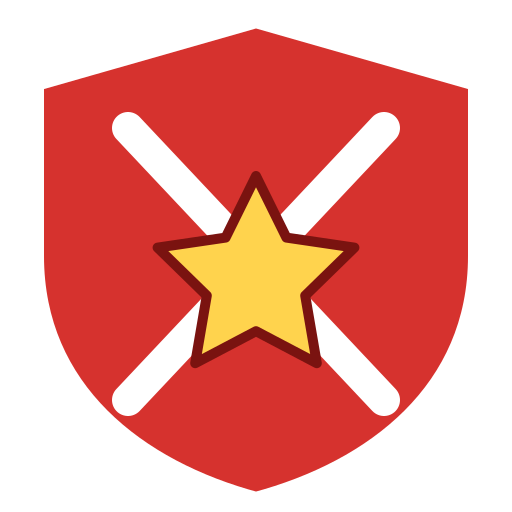
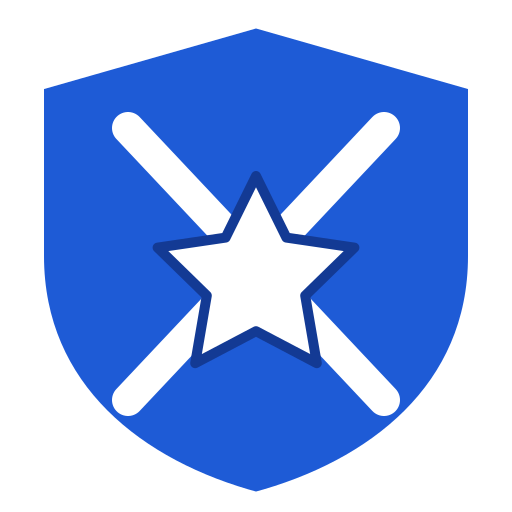
Switch Sibau Wars theme to blue and white
New blue/white logo and favicon, Sibau blue accent palette, blue hex
background. In-game colors restored to upstream values.

Claude-Session: https://claude.ai/code/session_01U8VWsYnnnMZr5W4Gy2c1H3

diff --git a/src/client/styles.css b/src/client/styles.css
@@ -22,11 +22,11 @@
   --font-display: "SibauDisplay", Inter, Arial, sans-serif;
 
   /* Openfront.io brand palette — see Openfront_Brand_Guidelines.pdf §4 */
-  --color-malibu-blue: #d6322e;
-  --color-aquarius: #ff5a4f;
+  --color-malibu-blue: #1e5bd6;
+  --color-aquarius: #5b9bff;
   --color-dawn-blue: #cccccc;
   --color-bright-white: #ffffff;
-  --color-bright-blue: #ff3b30;
+  --color-bright-blue: #3b82f6;
 
   /* Openfront Masters sub-brand */
   --color-cyber-yellow: #ffd700;
@@ -34,21 +34,21 @@
 
   /* Background & decorative — not for standalone UI use */
   --color-deep-navy: #0a1628;
-  --color-hex-cyan: #ff3b30;
+  --color-hex-cyan: #3b82f6;
   --color-frame-orange: #f97316;
 
   /* App-specific surface colors */
   --color-surface: #0a1628;
 
-  --shadow-malibu-blue: 0 0 15px rgba(214, 50, 46, 0.2);
-  --shadow-malibu-blue-soft: 0 0 12px rgba(214, 50, 46, 0.2);
-  --shadow-malibu-blue-strong: 0 0 15px rgba(214, 50, 46, 0.3);
-  --shadow-malibu-blue-pill: 0 0 6px rgba(214, 50, 46, 0.35);
-  --shadow-malibu-blue-ring-sm: 0 0 0 4px rgba(214, 50, 46, 0.2);
-  --shadow-malibu-blue-ring-lg: 0 0 0 6px rgba(214, 50, 46, 0.3);
-  --shadow-lobby-card-hover: 0 0 0 2px #d6322e, 0 0 20px rgba(214, 50, 46, 0.5);
+  --shadow-malibu-blue: 0 0 15px rgba(30, 91, 214, 0.2);
+  --shadow-malibu-blue-soft: 0 0 12px rgba(30, 91, 214, 0.2);
+  --shadow-malibu-blue-strong: 0 0 15px rgba(30, 91, 214, 0.3);
+  --shadow-malibu-blue-pill: 0 0 6px rgba(30, 91, 214, 0.35);
+  --shadow-malibu-blue-ring-sm: 0 0 0 4px rgba(30, 91, 214, 0.2);
+  --shadow-malibu-blue-ring-lg: 0 0 0 6px rgba(30, 91, 214, 0.3);
+  --shadow-lobby-card-hover: 0 0 0 2px #1e5bd6, 0 0 20px rgba(30, 91, 214, 0.5);
   --shadow-action-card-hover:
-    0 0 0 1px #d6322e, 0 0 12px rgba(214, 50, 46, 0.35);
+    0 0 0 1px #1e5bd6, 0 0 12px rgba(30, 91, 214, 0.35);
 }
 
 /* Match the in-game HUD surface; opacity affects the surface, not the controls. */

diff --git a/src/client/halloween.css b/src/client/halloween.css
@@ -19,7 +19,7 @@
 
 /* Base body styles & OpenFront @theme variable overrides (Homepage & Modals)
    Note: <o-modal> is a Shadow DOM host that adopts documentStylesSheet(), where
-   Tailwind v4's @layer theme declares `:root, :host { --color-malibu-blue: #d6322e }`.
+   Tailwind v4's @layer theme declares `:root, :host { --color-malibu-blue: #0084d1 }`.
    We declare `body.halloween-theme:not(.in-game) o-modal` (excluding in-game modals)
    separately from `:host-context(...)` so browsers without `:host-context()` (Safari/Firefox)
    still apply all variable overrides cleanly. */

diff --git a/src/client/hud/layers/WinModal.ts b/src/client/hud/layers/WinModal.ts
@@ -414,13 +414,13 @@ export class WinModal extends LitElement implements Controller {
         transform: translateY(0) scale(0.98);
       }
       .win-action:focus-visible {
-        outline: 2px solid #ff5a4f;
+        outline: 2px solid #3fa9f5;
         outline-offset: 2px;
       }
       .win-action-main {
         background: linear-gradient(
           to top,
-          rgba(214, 50, 46, 0.95) 0%,
+          rgba(0, 132, 209, 0.95) 0%,
           rgba(0, 101, 170, 0.8) 100%
         );
         border-color: rgba(63, 169, 245, 0.55);

diff --git a/src/client/controllers/AttackingTroopsController.ts b/src/client/controllers/AttackingTroopsController.ts
@@ -18,7 +18,7 @@ import type { AttackTroopLabel } from "../render/gl/passes/WorldTextPass";
 import { UserSettings } from "../UserSettings";
 import { GameView } from "../view";
 
-// Aquarius (#ff5a4f) for outgoing, red-400 (#f87171) for incoming.
+// Aquarius (#3fa9f5) for outgoing, red-400 (#f87171) for incoming.
 const OUTGOING_R = 0x3f / 255;
 const OUTGOING_G = 0xa9 / 255;
 const OUTGOING_B = 0xf5 / 255;

diff --git a/resources/public/privacy-policy.html b/resources/public/privacy-policy.html
@@ -6,8 +6,8 @@
     <title>Sibau Wars – Privacy</title>
     <style>
       body { font-family: system-ui, sans-serif; max-width: 720px; margin: 40px auto; padding: 0 20px; line-height: 1.6; background: #111; color: #eee; }
-      h1 { color: #ff5a4f; }
-      a { color: #ff5a4f; }
+      h1 { color: #5b9bff; }
+      a { color: #5b9bff; }
     </style>
   </head>
   <body>

diff --git a/resources/public/terms-of-service.html b/resources/public/terms-of-service.html
@@ -6,8 +6,8 @@
     <title>Sibau Wars – Terms</title>
     <style>
       body { font-family: system-ui, sans-serif; max-width: 720px; margin: 40px auto; padding: 0 20px; line-height: 1.6; background: #111; color: #eee; }
-      h1 { color: #ff5a4f; }
-      a { color: #ff5a4f; }
+      h1 { color: #5b9bff; }
+      a { color: #5b9bff; }
     </style>
   </head>
   <body>

diff --git a/README.md b/README.md
@@ -42,7 +42,7 @@ Sibau Wars sets `SELF_HOSTED=true` (the default in the Docker image), so the ser
 - All of OpenFront's ad, analytics and tracking scripts (Google, Playwire/RAMP, AdShield, CrazyGames, Cloudflare Insights, Turnstile) are removed.
 - The client and server send their API calls to the server's own `/sibau-api` stub, which answers `404` right away.
 - The OpenFront-only `proprietary/` assets (logos, display font, music, one sound effect) are removed. In their place are an original Sibau Wars logo and favicon, the open Overpass font, and simple placeholder music and a game-start chime made for this fork.
-- The theme is red instead of blue, and every text says "Sibau Wars".
+- The theme is Sibau blue and white, and every text says "Sibau Wars".
 
 The changes are kept small (see `SELF_HOSTED` in `src/server/ServerEnv.ts` and the "Sibau Wars" block at the end of `src/client/styles.css`), so pulling in later OpenFront updates stays manageable.
 
